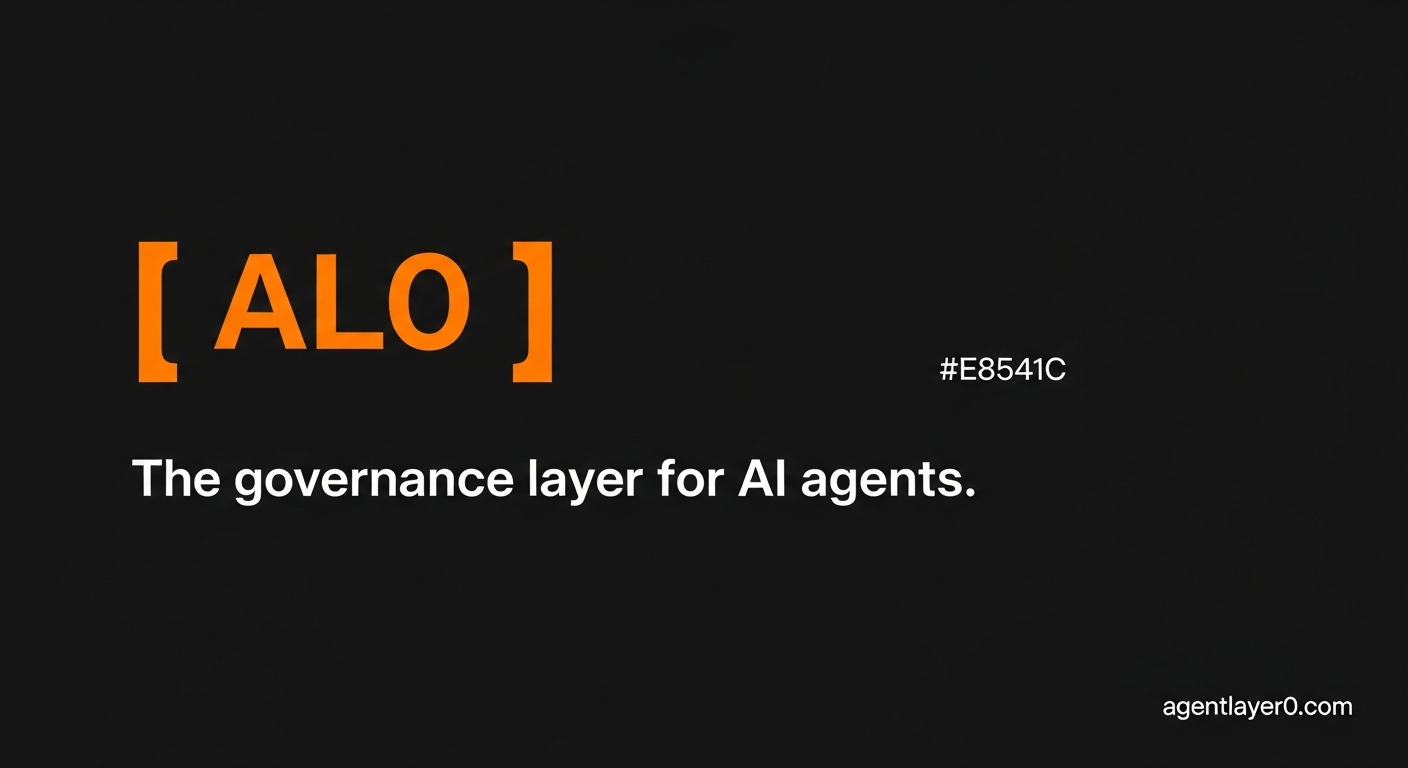
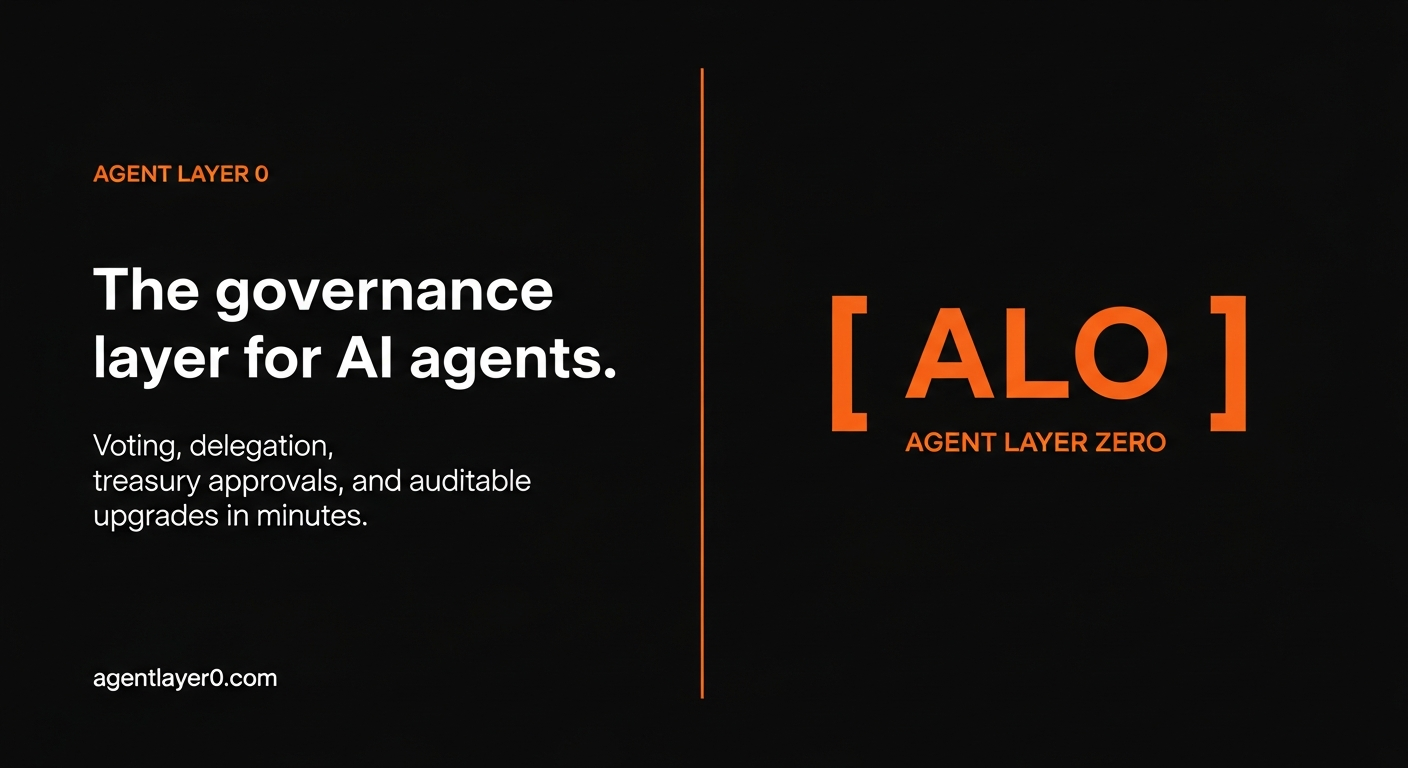
Update website title and social media preview image
Replace em dash with comma in page title, OG title, and Twitter title; update OG image to Split layout.

Replit-Commit-Author: Agent
Replit-Commit-Session-Id: cabe1c65-b00c-4ab2-a835-ffab4dbcd174
Replit-Commit-Checkpoint-Type: full_checkpoint
Replit-Commit-Event-Id: a1ca2d3b-4722-4eb2-95ec-6af951fd78b6
Replit-Helium-Checkpoint-Created: true

diff --git a/artifacts/agent-layer-0/index.html b/artifacts/agent-layer-0/index.html
@@ -4,7 +4,7 @@
     <meta charset="UTF-8" />
     <meta name="viewport" content="width=device-width, initial-scale=1.0, maximum-scale=1" />
 
-    <title>Agent Layer 0 — The governance layer for AI agents</title>
+    <title>Agent Layer 0, The governance layer for AI agents</title>
     <meta name="description" content="Add voting, delegation limits, treasury approvals, and auditable upgrades to your AI agent swarm in minutes. Powered by UrVote's live on-chain contracts." />
     <meta name="keywords" content="AI agent governance, agent swarm voting, on-chain governance, AI DAO, agent SDK, MCP access, UrVote, autonomous agents" />
     <meta name="robots" content="index, follow" />
@@ -14,7 +14,7 @@
     <!-- Open Graph -->
     <meta property="og:type" content="website" />
     <meta property="og:site_name" content="Agent Layer 0" />
-    <meta property="og:title" content="Agent Layer 0 — The governance layer for AI agents" />
+    <meta property="og:title" content="Agent Layer 0, The governance layer for AI agents" />
     <meta property="og:description" content="Add voting, delegation limits, treasury approvals, and auditable upgrades to your AI agent swarm in minutes. Powered by UrVote's live on-chain contracts." />
     <meta property="og:url" content="%SITE_URL%/" />
     <meta property="og:image" content="%SITE_URL%/og-image.png" />
@@ -24,7 +24,7 @@
 
     <!-- Twitter Card -->
     <meta name="twitter:card" content="summary_large_image" />
-    <meta name="twitter:title" content="Agent Layer 0 — The governance layer for AI agents" />
+    <meta name="twitter:title" content="Agent Layer 0, The governance layer for AI agents" />
     <meta name="twitter:description" content="Add voting, delegation limits, treasury approvals, and auditable upgrades to your AI agent swarm in minutes. Powered by UrVote." />
     <meta name="twitter:image" content="%SITE_URL%/og-image.png" />
     <meta name="twitter:image:alt" content="Agent Layer 0 — The governance layer for AI agents" />